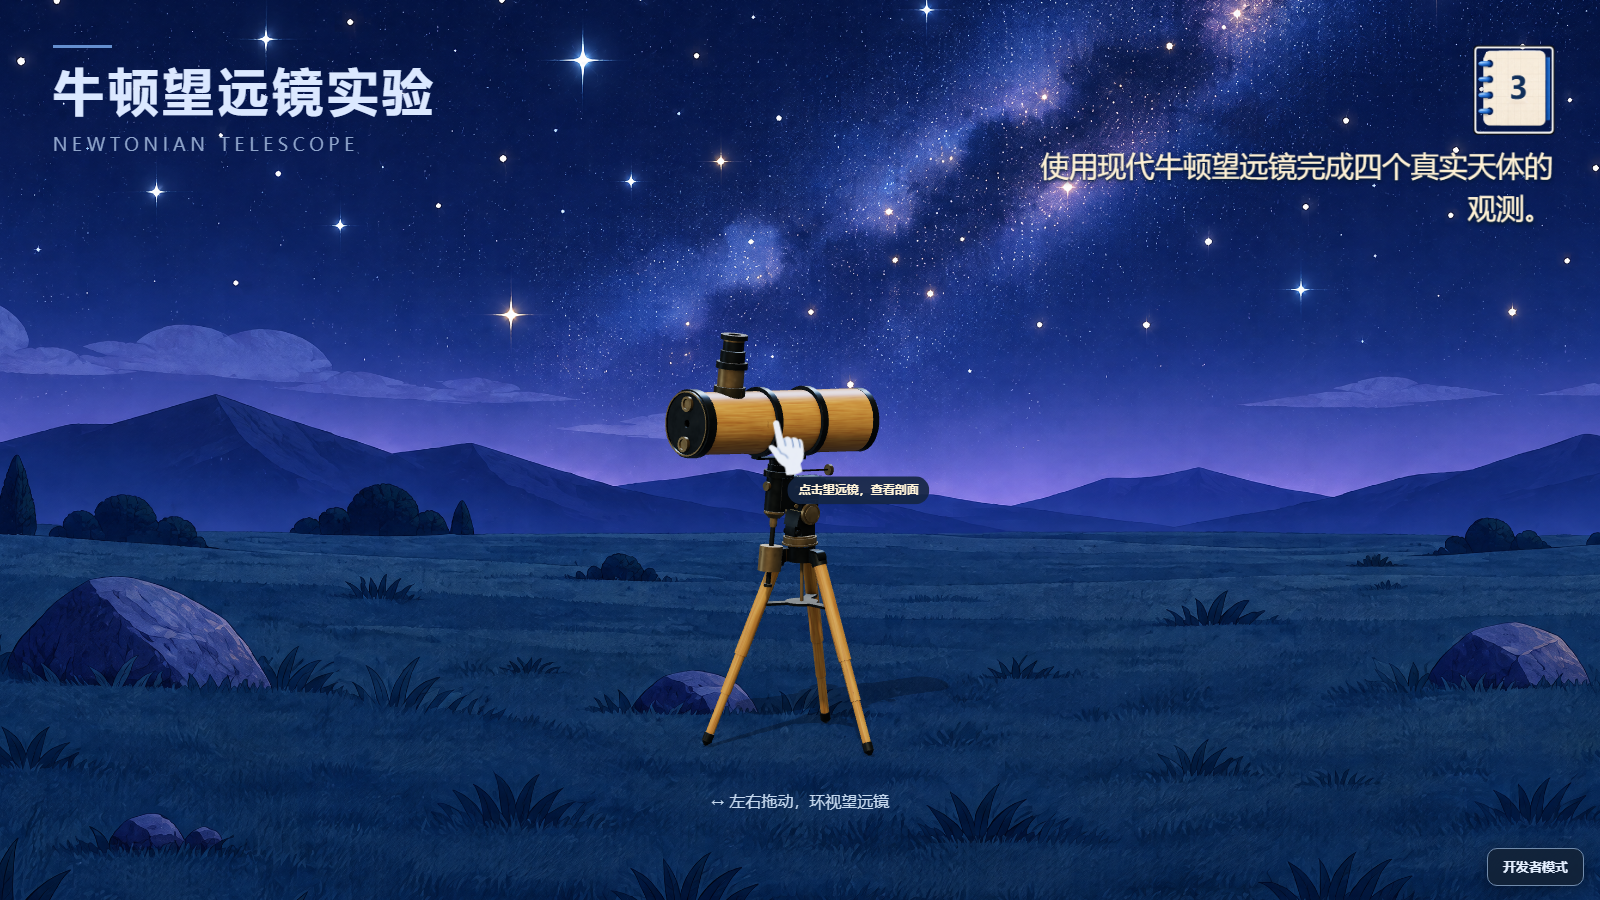
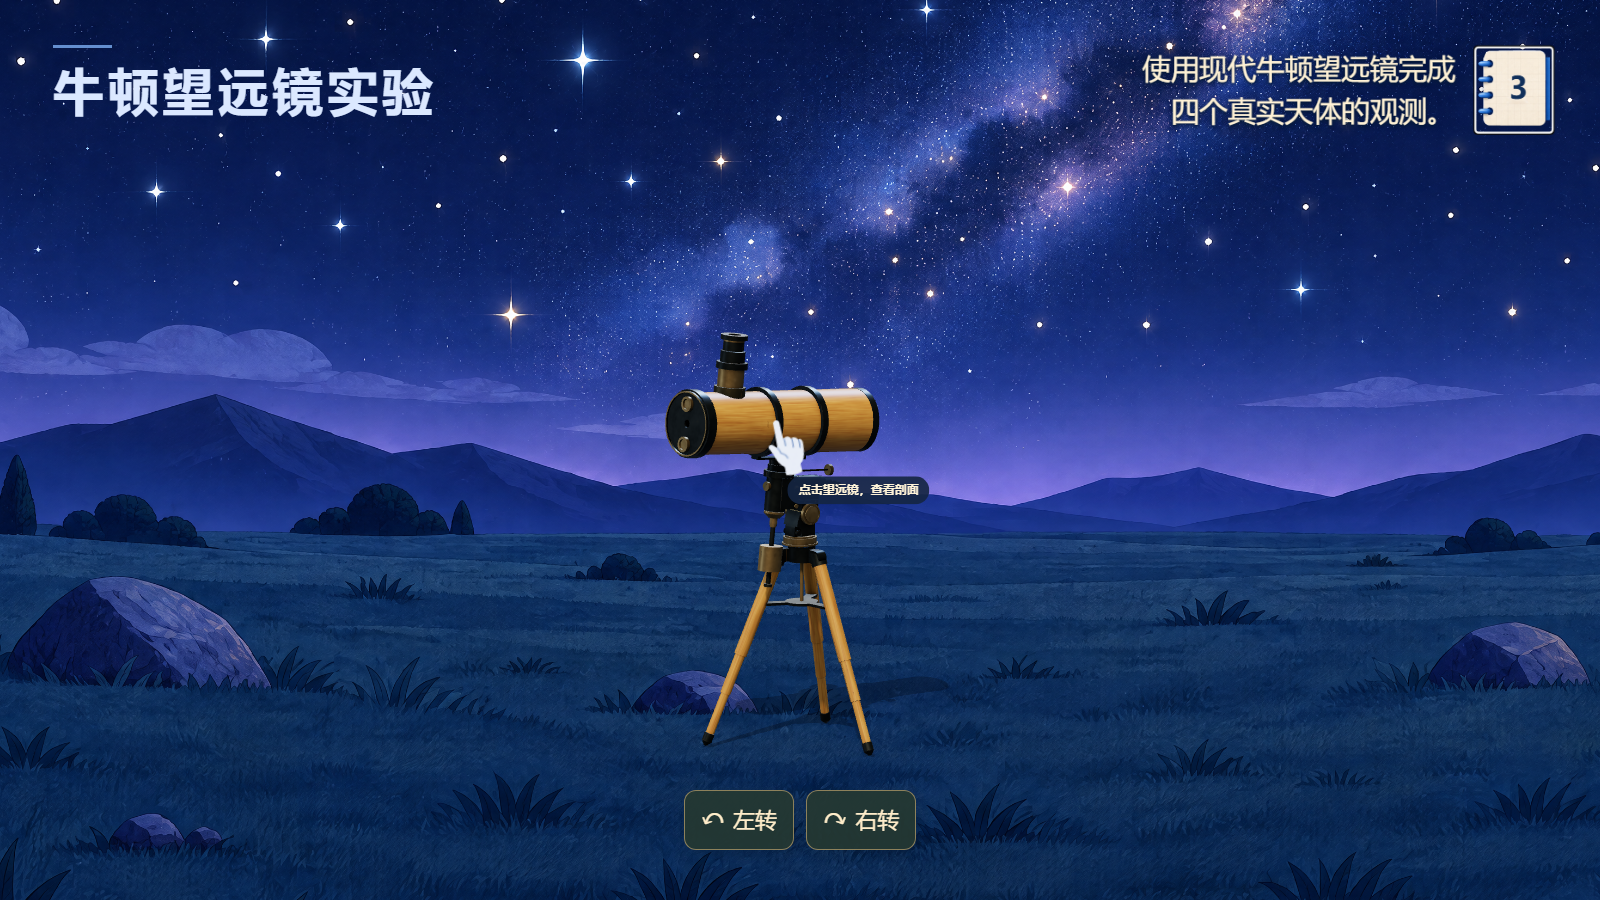
牛顿望远镜：记录合并前回归与离线验证
完成内容：
- 归档同步主线后的三阶段、热点和离线真实装配证据。
- 记录静态、单元、专项浏览器检查结果与性能边界。

已知问题：
- 公共进度预览断言仍失败；白板实机与长期性能待验收。

diff --git a/experiments/newton-telescope/review/release-20261111/REPORT.md b/experiments/newton-telescope/review/release-20261111/REPORT.md
@@ -1,0 +1,21 @@
+# 牛顿望远镜整合交付 · 2026-11-11
+
+范围：experiments/newton-telescope/，当前 integration-20261110 分支。包含先前整合基线、Cover 模型与手绘材质，以及本轮三阶段教学交互调整。已合并 origin/main，无冲突；PR 相对主线不含其他实验或公共组件改动。
+
+## 检查结果
+- git diff --check：通过。
+- npm run check：0 errors。
+- npm test：23 工程测试及光学、课程单元测试通过。
+- npm run test:browser：未通过，停在 previews/components/progress.test.cjs:12，true !== false。公共组件既有失败未修改。
+- npm run export -- newton-telescope：通过，207.89 MiB、63 assets，dist 不提交。
+- 同步主线后：mount-fallback、stage-objective、developer-hold、viewer-controls 浏览器专项通过，含鼠标与触屏、阶段阻塞/折叠、长按和弹窗可读性。
+- 本轮 focus-controls、specimen-tips、rotation-buttons 专项通过，包含 150 mm 真实中间光学状态、单 Tips、固定按钮坐标和空闲停止渲染。
+
+## 性能专项检查
+适用：转场动画、焦点输入、WebGL 材质/纹理、生命周期和布局。旋转按需绘制及 GPU 几何/纹理数稳定已覆盖；固定按钮取消逐帧三维投影；焦点指针事件通过既有调度合并。此前各专题原始结果保留于相应 review 目录。短时本机自动化不代表低端设备或长期性能验收。
+
+## 限制
+智慧白板实机触控、低端设备、长期运行和最终美术验收待完成。公共组件两处既有未提交改动保留本地，不随本实验提交。本记录区分自动化回归与用户实际试玩，未声称全项目浏览器测试通过。
+
+## 离线真实交互回归
+以 file:// 打开本轮 standalone，nightly-assembly.browser.cjs 通过：真实指针装配、错误放置、重置、声音和 UI 反馈、503.3 ms 自动切换、匀速一周后弹窗、继续观察和前往观测、重新打开与取消清理。页面异常和资源失败均为空。证据见 offline/。
